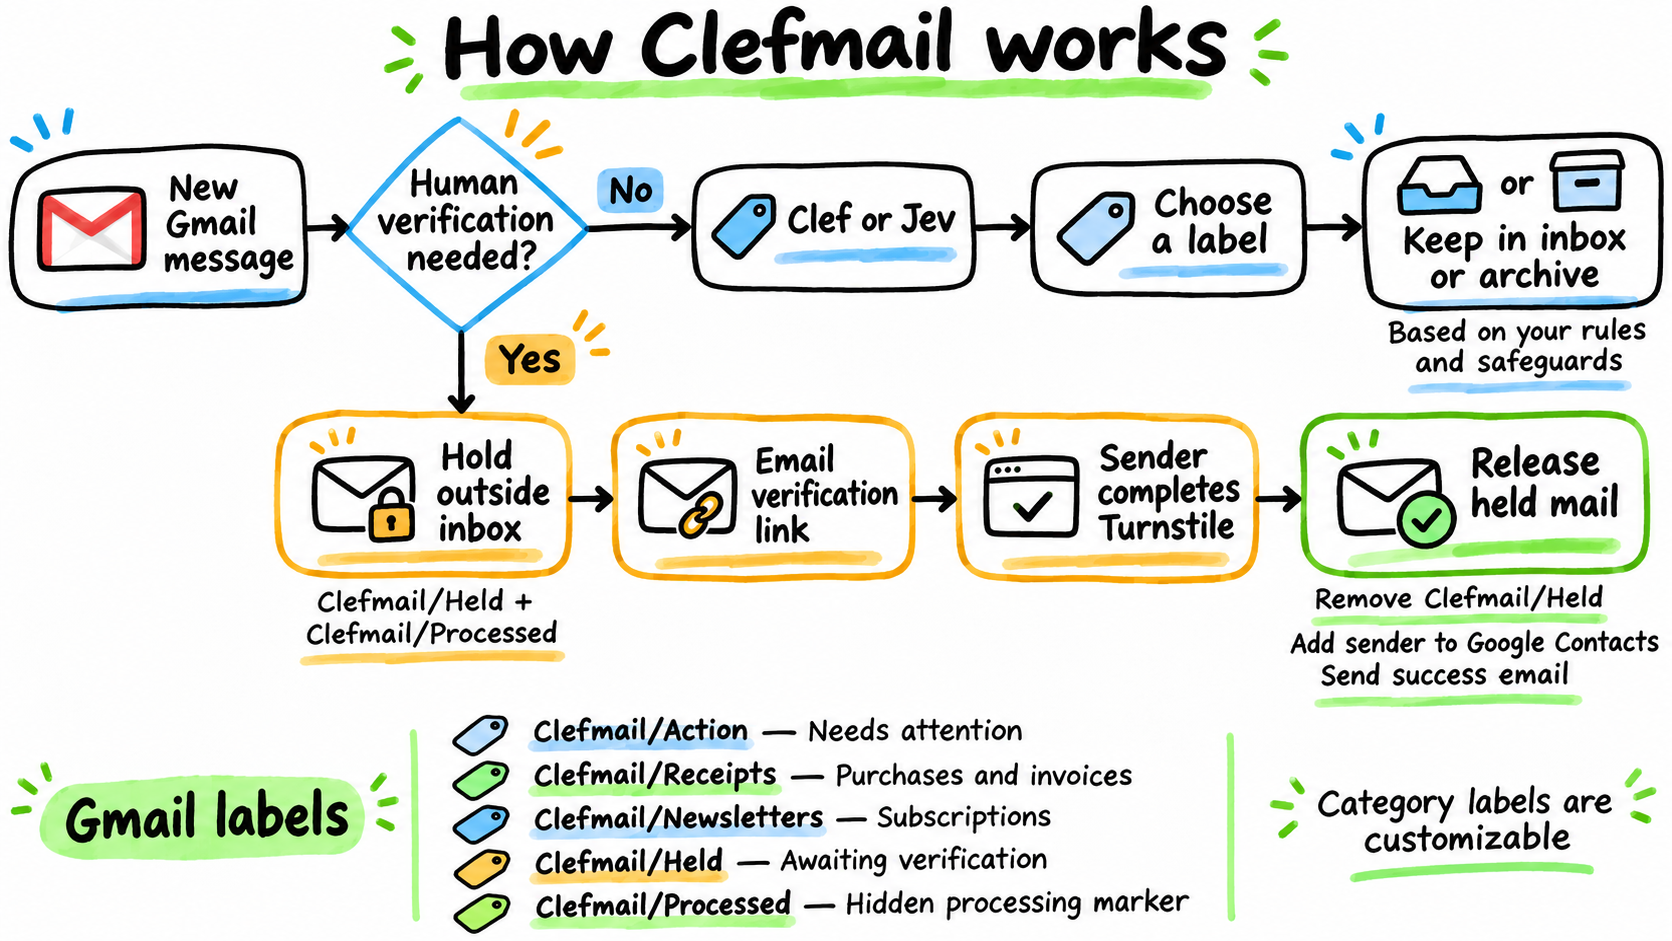
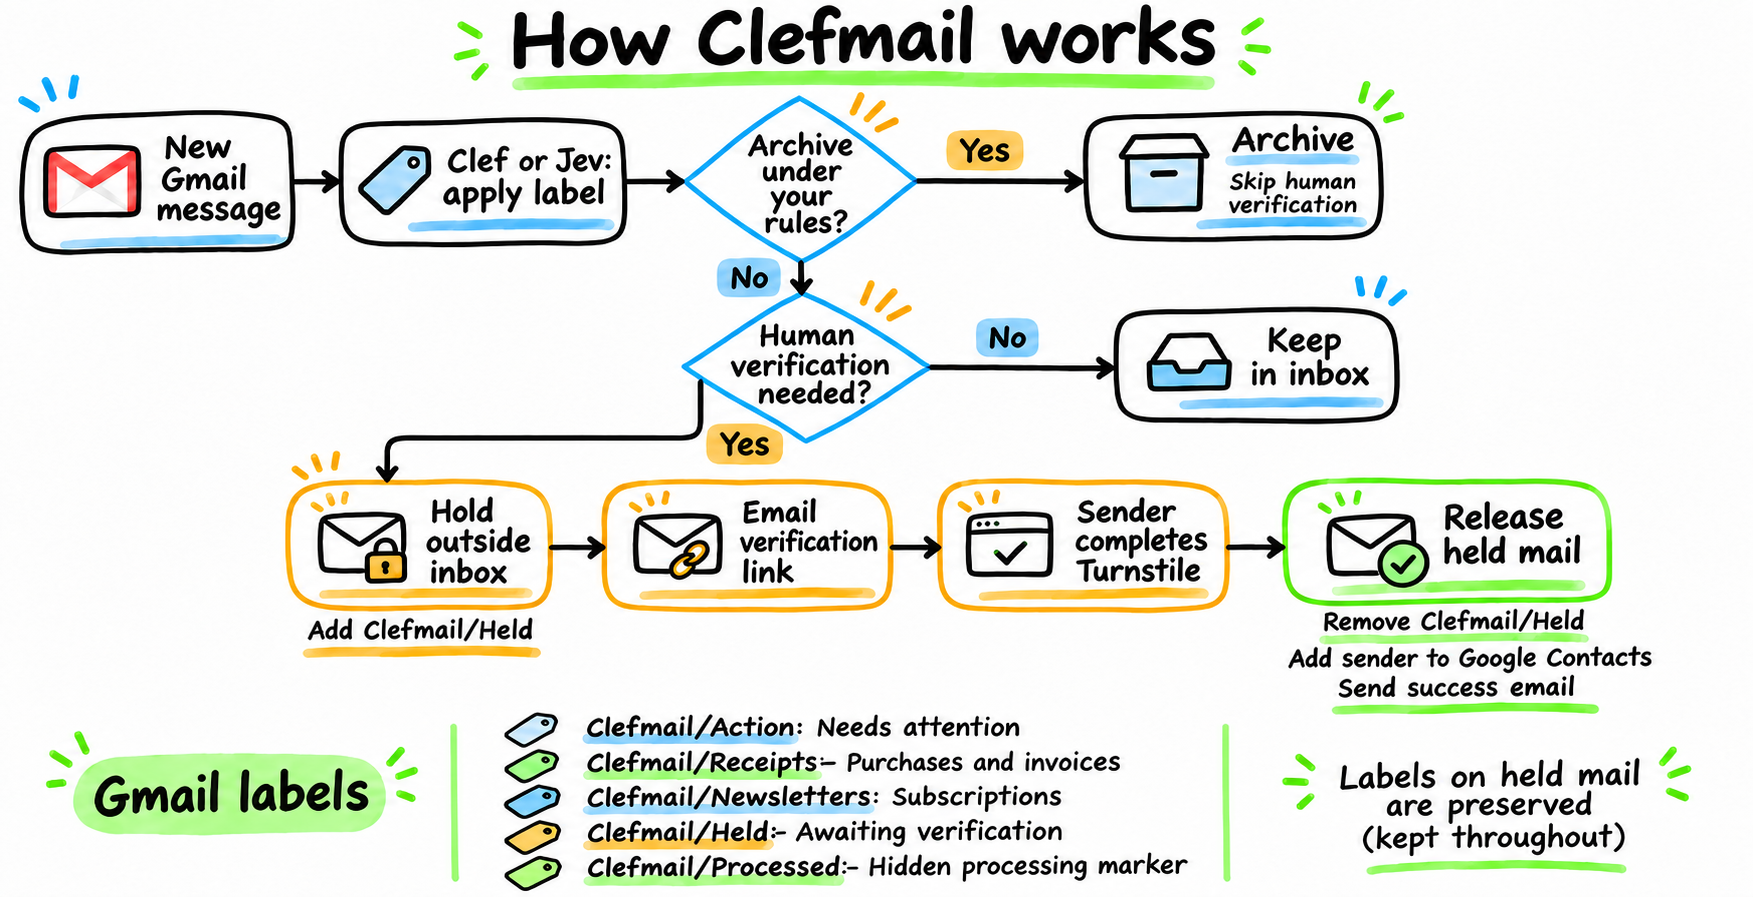
Classify and archive before verification and enable production defaults

diff --git a/tests/verification.test.ts b/tests/verification.test.ts
@@ -22,12 +22,12 @@ const protectedAccount = accountSchema.parse({ ...account, humanVerification: tr
 const settings = { publicUrl: "https://verify.example.com", siteKey: "synthetic-key" };
 const config = configSchema.parse({ provider: { kind: "jev" }, verification: settings, accounts: [protectedAccount] });
 
-function fixture() {
+function fixture(classify = async () => decision) {
   const state = new MemoryState(), senders = new MemorySenders(), gmail = new FakeGmail();
   let classified = 0;
   const verification = new Verification({ state, senders, gmail: () => gmail, publicUrl: settings.publicUrl });
   const processor = new Processor({ state, gmail: () => gmail, verification,
-    classify: async () => { classified++; return decision; }, log: () => {} });
+    classify: async () => { classified++; return classify(); }, log: () => {} });
   const record = async () => (await senders.read(account.id, digest(sender)))!.record;
   return { state, senders, gmail, verification, processor, record, classified: () => classified };
 }
@@ -38,7 +38,7 @@ async function next(f: ReturnType<typeof fixture>, id: string, cursor = "250") {
   await f.processor.notification(protectedAccount, cursor);
 }
 
-test("new sender archived before challenge; repeats stay archived without more notices or AI", async () => {
+test("new sender labeled before challenge; each new message is classified before being held", async () => {
   const f = fixture();
   const send = f.gmail.sendNotice.bind(f.gmail);
   f.gmail.sendNotice = async (...args) => {
@@ -47,7 +47,7 @@ test("new sender archived before challenge; repeats stay archived without more n
     await send(...args);
   };
   await f.processor.notification(protectedAccount, "200");
-  expect(f.classified()).toBe(0);
+  expect(f.classified()).toBe(1);
   expect(f.gmail.notices).toHaveLength(1);
   expect(f.gmail.notices[0]!.body).toContain("https://verify.example.com/verify#personal/");
   f.gmail.corresponded = true; // Pending messages themselves must never confer trust.
@@ -55,6 +55,64 @@ test("new sender archived before challenge; repeats stay archived without more n
   expect(f.gmail.messages.get("a2")!.labelIds).not.toContain("INBOX");
   expect(f.gmail.notices).toHaveLength(1);
   expect((await f.record()).pending).toHaveLength(2);
+  expect(f.classified()).toBe(2);
+  expect(f.gmail.messages.get("a2")!.labelIds).toContain("Label_receipts");
+});
+
+test("AI-archived mail skips sender verification entirely", async () => {
+  const f = fixture();
+  f.gmail.hasCorresponded = async () => { throw new Error("Verification must be skipped"); };
+  await f.processor.notification({ ...protectedAccount, archiveEnabled: true }, "200");
+  expect(f.classified()).toBe(1);
+  expect(f.gmail.messages.get("a1")!.labelIds).toContain("Label_receipts");
+  expect(f.gmail.messages.get("a1")!.labelIds).toContain("Label_done");
+  expect(f.gmail.messages.get("a1")!.labelIds).not.toContain("INBOX");
+  expect(f.gmail.messages.get("a1")!.labelIds).not.toContain("Label_held");
+  expect(f.gmail.notices).toHaveLength(0);
+  expect(f.senders.values.size).toBe(0);
+});
+
+test("mail kept by the model is labeled before the sender challenge", async () => {
+  const f = fixture(async () => ({ ...decision, archive: false }));
+  const send = f.gmail.sendNotice.bind(f.gmail);
+  f.gmail.sendNotice = async (...args) => {
+    expect(f.gmail.messages.get("a1")!.labelIds).toContain("Label_receipts");
+    await send(...args);
+  };
+  await f.processor.notification({ ...protectedAccount, archiveEnabled: true }, "200");
+  expect(f.gmail.notices).toHaveLength(1);
+  expect(f.gmail.messages.get("a1")!.labelIds).toContain("Label_held");
+});
+
+test("classification failure leaves mail untouched and sends no challenge", async () => {
+  const f = fixture(async () => { throw new SafeError("provider_unavailable"); });
+  await expect(f.processor.notification(protectedAccount, "200")).rejects.toThrow("provider_unavailable");
+  expect(f.gmail.modifications).toHaveLength(0);
+  expect(f.gmail.notices).toHaveLength(0);
+  expect(f.senders.values.size).toBe(0);
+  expect(f.state.snapshot!.data.historyId).toBe("100");
+});
+
+test("failed sender lookup after labeling retries without losing verification", async () => {
+  const f = fixture();
+  f.gmail.hasCorresponded = async () => { throw new SafeError("lookup_failed"); };
+  await expect(f.processor.notification(protectedAccount, "200")).rejects.toThrow("lookup_failed");
+  expect(f.gmail.messages.get("a1")!.labelIds).toContain("Label_receipts");
+  expect(f.gmail.messages.get("a1")!.labelIds).not.toContain("Label_done");
+  f.gmail.hasCorresponded = async () => false;
+  await f.processor.notification(protectedAccount, "200");
+  expect(f.gmail.notices).toHaveLength(1);
+  expect(f.gmail.messages.get("a1")!.labelIds).toContain("Label_held");
+});
+
+test("mail already outside the inbox is labeled without a sender challenge", async () => {
+  const f = fixture();
+  f.gmail.messages.set("a1", message("a1", []));
+  await f.processor.notification(protectedAccount, "200");
+  expect(f.gmail.messages.get("a1")!.labelIds).toContain("Label_receipts");
+  expect(f.gmail.messages.get("a1")!.labelIds).toContain("Label_done");
+  expect(f.gmail.notices).toHaveLength(0);
+  expect(f.senders.values.size).toBe(0);
 });
 
 test("verification restores held messages, adds contact, sends success once and protects future mail", async () => {
@@ -115,6 +173,7 @@ test("failed challenge send retries despite processed marker and preserves pendi
   await f.processor.notification(protectedAccount, "200");
   expect(f.gmail.notices).toHaveLength(1);
   expect((await f.record()).pending).toHaveLength(1);
+  expect(f.classified()).toBe(1);
 });
 
 test("partial restoration failure resumes without repeating successful restores or success mail", async () => {
@@ -221,7 +280,7 @@ test("exact test subject challenges self and trusted senders with ordinary verif
     expect(f.gmail.messages.get("test1")!.labelIds).not.toContain("INBOX");
     expect(f.gmail.messages.get("test1")!.labelIds).toContain("Label_held");
     expect(f.gmail.notices).toHaveLength(1);
-    expect(f.classified()).toBe(0);
+    expect(f.classified()).toBe(1);
     const key = digest(`test:${from}:test1`);
     const record = (await f.senders.read(account.id, key))!.record;
     expect(record.test).toBe(true);
@@ -299,4 +358,15 @@ test("invalid origins, missing proof, oversized and invalid account inputs never
   expect((await f.handler(f.request({ token: "x".repeat(5000) }))).status).toBe(413);
   expect((await f.handler(f.request({ account: "unknown" }))).status).toBe(400);
   expect(f.completions()).toBe(0); expect(f.challenges()).toBe(0);
+});
+
+
+test("production defaults enable archiving and verification with diagnostics off", () => {
+  const { humanVerification, archiveEnabled, humanVerificationTest, ...base } = account;
+  const defaults = accountSchema.parse(base);
+  expect(defaults.archiveEnabled).toBe(true);
+  expect(defaults.humanVerification).toBe(true);
+  expect(defaults.humanVerificationTest).toBe(false);
+  expect(() => configSchema.parse({ provider: { kind: "jev" }, accounts: [base] })).toThrow();
+  expect(configSchema.parse({ provider: { kind: "jev" }, verification: settings, accounts: [base] }).accounts[0]!.humanVerification).toBe(true);
 });

diff --git a/src/processor.ts b/src/processor.ts
@@ -46,7 +46,8 @@ export class Processor {
     const resume = verify &&
       await this.deps.verification?.needsResume(account, message);
     if (message.labelIds?.includes(labels.processed) && !resume) return;
-    if (verify) {
+    if (verify && !this.deps.verification) throw new SafeError("verification_not_configured");
+    if (resume) {
       if (!this.deps.verification) throw new SafeError("verification_not_configured");
       if (await this.deps.verification.quarantine(account, message, gmail, labels, session)) return;
       if (message.labelIds?.includes(labels.processed)) return;
@@ -84,7 +85,10 @@ export class Processor {
     const protectedSender = !sender || sender === account.email || await gmail.hasContact(sender) ||
       !!(account.humanVerification && await this.deps.verification?.trusted(account, sender));
     const block = protectedSender ? "protected_sender" : archiveBlock(decision, account, current.labelIds || []);
-    const add = [labels.processed];
+    const checkSender = verify && block !== null && !!current.labelIds?.includes("INBOX");
+    // Leave completion unmarked until the sender check succeeds. A retry can
+    // repeat classification safely if it failed before quarantine was journaled.
+    const add = checkSender ? [] : [labels.processed];
     if (decision.label) {
       const selected = labels.options[decision.label];
       if (!selected) throw new SafeError("unmapped_label");
@@ -93,7 +97,12 @@ export class Processor {
     await session.assertOwned();
     signal.throwIfAborted();
     // One message-level modification, never a thread update, send, trash, or delete.
-    await gmail.modify(id, add, block === null ? ["INBOX"] : []);
+    if (add.length || block === null) await gmail.modify(id, add, block === null ? ["INBOX"] : []);
+    if (checkSender) {
+      if (await this.deps.verification!.quarantine(account, message, gmail, labels, session)) return;
+      await session.assertOwned();
+      await gmail.modify(id, [labels.processed], []);
+    }
     this.log("message_processed", {
       account: account.id, message: id, label: decision.label,
       archived: block === null, archiveBlock: block, reason: decision.reason,

diff --git a/src/config.ts b/src/config.ts
@@ -18,7 +18,7 @@ export const accountSchema = z.object({
   prompt: z.string().trim().min(1).max(4000),
   enabled: z.boolean().default(true),
   archiveEnabled: z.boolean().default(true),
-  humanVerification: z.boolean().default(false),
+  humanVerification: z.boolean().default(true),
   humanVerificationTest: z.boolean().default(false),
   probability: z.number().min(0.5).max(1).default(0.75),
   margin: z.number().min(0).max(1).default(0.15),

diff --git a/tests/helpers.ts b/tests/helpers.ts
@@ -7,6 +7,7 @@ import type { EmailText, Message } from "../src/text.js";
 
 export const account = accountSchema.parse({
   id: "personal", email: "owner@example.com", refreshTokenEnv: "GMAIL_PERSONAL_REFRESH_TOKEN",
+  humanVerification: false,
   prompt: "Archive routine receipts only.",
   labels: [{ id: "receipts", name: "Clefmail/Receipts", description: "Routine receipts" }],
 });

diff --git a/README.md b/README.md
@@ -2,7 +2,7 @@
 
 Clefmail organizes new Gmail messages as they arrive. It uses Clef or Jev to choose a label from your rules, with optional archiving for mail that needs no inbox attention. You keep using Gmail, where the labels and messages appear.
 
-For more control over who reaches your inbox, enable human verification. Clefmail holds mail from unknown senders and emails them a link to confirm they are human. Once they complete the check, their held mail returns to your inbox and they become a Google Contact.
+AI archiving and human verification are enabled by default. Classification and archiving run first. Messages archived under your rules skip human verification. For mail that remains in the inbox, human verification holds mail from unknown senders and emails them a link to confirm they are human. Once they complete the check, their held mail returns to your inbox and they become a Google Contact.
 
 Clefmail is self-hosted on Google Cloud and supports up to ten mailboxes with separate rules. **Ready for production:** deployment and live-mail testing are complete, including sender verification.
 
@@ -12,7 +12,7 @@ Clefmail is self-hosted on Google Cloud and supports up to ten mailboxes with se
 
 Processing starts with mail received after the first Gmail watch is registered. Clefmail skips Spam, Trash, drafts and sent-only messages. Read mail and messages archived by a Gmail filter remain eligible for labeling. Each update applies to an individual message and preserves its unread status and unrelated labels.
 
-AI archiving defaults to `true`. Set `archiveEnabled: false` for labeling only. Contacts are protected from Clefmail archiving; starred and important messages are also protected from AI archiving. Human verification uses its own `humanVerification` setting, which defaults to `false`.
+AI archiving defaults to `true`. Set `archiveEnabled: false` for labeling only. Contacts are protected from Clefmail archiving; starred and important messages are also protected from AI archiving. Human verification uses its own `humanVerification` setting, which defaults to `true`.
 
 ### Labels in Gmail
 
@@ -26,15 +26,19 @@ The example configuration includes three category labels. You can rename these o
 | `Clefmail/Held` | The message is waiting for its sender to complete human verification; removed when the message is released |
 | `Clefmail/Processed` | Hidden marker used to track handled messages and prevent repeated classification; remains after release from a hold |
 
-A classified message receives at most one configured category label. When the model is uncertain, Clefmail applies only `Clefmail/Processed` and keeps the message's inbox status. Held messages receive both `Clefmail/Held` and `Clefmail/Processed`; they bypass AI classification, including when released.
+A classified message receives at most one configured category label. When the model is uncertain, Clefmail applies only `Clefmail/Processed` and keeps the message's inbox status. Held messages retain their category label and receive both `Clefmail/Held` and `Clefmail/Processed`. They have already been classified and keep their labels when released.
 
 ### Human verification
 
-When enabled, Clefmail checks Google Contacts, saved verification status and retained Gmail correspondence to decide whether a sender needs verification. Existing contacts and previously verified senders can reach the inbox. Earlier correspondence also bypasses the human check, though AI archiving can still apply to a sender outside your contacts.
+For messages that remain in the inbox after classification and archiving, Clefmail checks Google Contacts, saved verification status and retained Gmail correspondence to decide whether a sender needs verification. Existing contacts and previously verified senders can reach the inbox. Earlier correspondence also bypasses the human check, though AI archiving can still apply to a sender outside your contacts.
 
 ```mermaid
 flowchart TD
-    A[Email from an unknown sender] --> B[Add Clefmail/Held and Clefmail/Processed]
+    A[Classify and apply category label] --> Archive{Archive under mailbox policy?}
+    Archive -->|Yes| Done[Archive and skip human verification]
+    Archive -->|No, still in inbox| Check{Unknown sender and verification enabled?}
+    Check -->|No| Keep[Keep in inbox]
+    Check -->|Yes| B[Add Clefmail/Held and Clefmail/Processed]
     B --> C[Remove from inbox and save the message for release]
     C --> D{Safe to send an automatic reply?}
     D -->|Yes| E[Email sender: Please verify you are human]
@@ -47,7 +51,7 @@ flowchart TD
     K --> L[Future mail bypasses verification and Clefmail archiving]
 ```
 
-Further mail from a sender awaiting verification joins the hold. Clefmail reuses the pending challenge while its link remains valid. Messages moved to Trash or Spam stay there when verification completes, and mail originally archived by a Gmail filter stays archived.
+Further mail from a sender awaiting verification is classified first. Mail that remains in the inbox joins the hold. Clefmail reuses the pending challenge while its link remains valid. Messages moved to Trash or Spam stay there when verification completes, and mail originally archived by a Gmail filter stays archived.
 
 Automated replies, bulk mail and other messages that could cause reply loops may be held without a challenge. The owner can add a sender to Google Contacts; subsequent processing releases their held mail. See the [human verification guide](docs/VERIFICATION.md) for setup and the full handling rules.
 
@@ -144,7 +148,7 @@ Other optional account settings:
 | --- | --- | --- |
 | `enabled` | `true` | Whether to process and renew watches for this mailbox |
 | `archiveEnabled` | `true` | Allow the AI classifier to archive eligible messages (contacts are always protected) |
-| `humanVerification` | `false` | Independently quarantine new unknown senders until verified; requires verification service configuration |
+| `humanVerification` | `true` | Independently quarantine new unknown senders until verified; requires verification service configuration |
 | `probability` | `0.75` | Minimum category probability |
 | `margin` | `0.15` | Minimum margin over the runner-up category |
 | `archiveThreshold` | `0.95` | Minimum archive probability |
@@ -238,6 +242,8 @@ unset GOOGLE_CLIENT_ID GOOGLE_CLIENT_SECRET CLASSIFIER_API_KEY
 The commands above are for **initial creation**. If a secret already exists, inspect it and use `gcloud secrets versions add` with the appropriate `--data-file` instead. Do not delete working secrets to repeat the walkthrough. Record new version numbers for deployment; never paste secret values into `SECRET_BINDINGS`.
 
 ## 6. Deploy and start processing
+
+Complete the [verification service setup](docs/VERIFICATION.md#deployment-sequence) before enabling processing with the default configuration. Set the real verification URL and Turnstile site key in `config.json`. For initial provisioning, temporarily set `humanVerification: false` until the public service is ready, then enable it on both services.
 
 Use the uploaded configuration version that contains your chosen mailbox and archiving settings.
 

diff --git a/docs/VERIFICATION.md b/docs/VERIFICATION.md
@@ -7,17 +7,17 @@ and restores messages that originally arrived in the inbox.
 
 ## Behavior
 
-Enable `humanVerification: true` on a mailbox to hold new unknown senders:
+`humanVerification` defaults to `true` on each mailbox to hold mail from unknown senders after classification. Clefmail applies category labels and the AI archive policy first. Archived mail skips verification. Mail already outside the inbox also skips a new challenge. For messages that remain in the inbox:
 
 1. Check Google Contacts. Contacts are never archived by either Clefmail archive path, even when verification is disabled.
 2. Check durable sender state **before** searching history. A pending sender's own held messages and Clefmail's outgoing challenge do not make them trusted.
 3. For a sender without state, search retained Gmail incoming/sent metadata for exact correspondence. Earlier incoming mail or an email the mailbox has sent to the address exempts the sender from verification. Existing correspondence does **not** exempt non-contacts from the ordinary AI archive policy.
-4. For an unknown sender, persist a pending record, archive the incoming message, and send a verification link. No AI inference is performed on quarantined messages. Further messages from that pending sender are archived, without repeated challenges while the link is valid.
+4. For an unknown sender, persist a pending record, archive the incoming message, and send a verification link. The message keeps its category label. Further messages from that sender are also classified first; those kept in the inbox join the hold, without repeated challenges while the link is valid.
 5. The sender opens the link and completes Cloudflare Turnstile. Server-side validation checks success, hostname, action, and binding to this particular verification capability. GET requests and email link scanners cannot verify someone.
 6. Under the same mailbox lease used by processing, create the sender's Google Contact, restore held messages that were originally in the inbox, and send a success email **to the verified sender**. Messages that were already archived by a Gmail filter, deleted, moved to Spam/Trash, or made drafts are not restored.
 7. Later mail bypasses quarantine. Contacts and durable verified-sender state protect it from the AI archiver.
 
-`archiveEnabled` controls **AI archiving only**. Human-verification quarantine is independently enabled and applies even to starred/important or body-unavailable mail. It never processes Spam, Trash, drafts, or sent-only messages. Gmail filters and other applications remain outside Clefmail's control.
+`archiveEnabled` controls **AI archiving only**. Human-verification quarantine is independently enabled and follows the AI archive decision. It can hold remaining inbox mail even when starred/important or body-unavailable. It never processes Spam, Trash, drafts, or sent-only messages. Gmail filters and other applications remain outside Clefmail's control.
 
 The first challenge is an automatic reply with an `In-Reply-To` header when the original Message-ID is usable. The success email is a separate confirmation. Subjects and bodies use fixed templates; incoming message bodies are never copied into notices.
 
@@ -120,7 +120,9 @@ subject `Human verification test`. This requires the public verification service
 and Turnstile settings. You can leave `humanVerification: false` to keep ordinary
 mail on the usual labeling path.
 
-The match is case-sensitive and includes whitespace. Each matching incoming
+Classification and the archive policy also run before this diagnostic mode. Only mail that remains in the inbox reaches the sender check.
+
+The match is case-sensitive and includes whitespace. Each eligible matching incoming
 message gets a separate test record and verification link, including mail from
 your own address, existing contacts, and previous correspondents. Verification
 restores that test message and sends a confirmation. Test records leave Google
